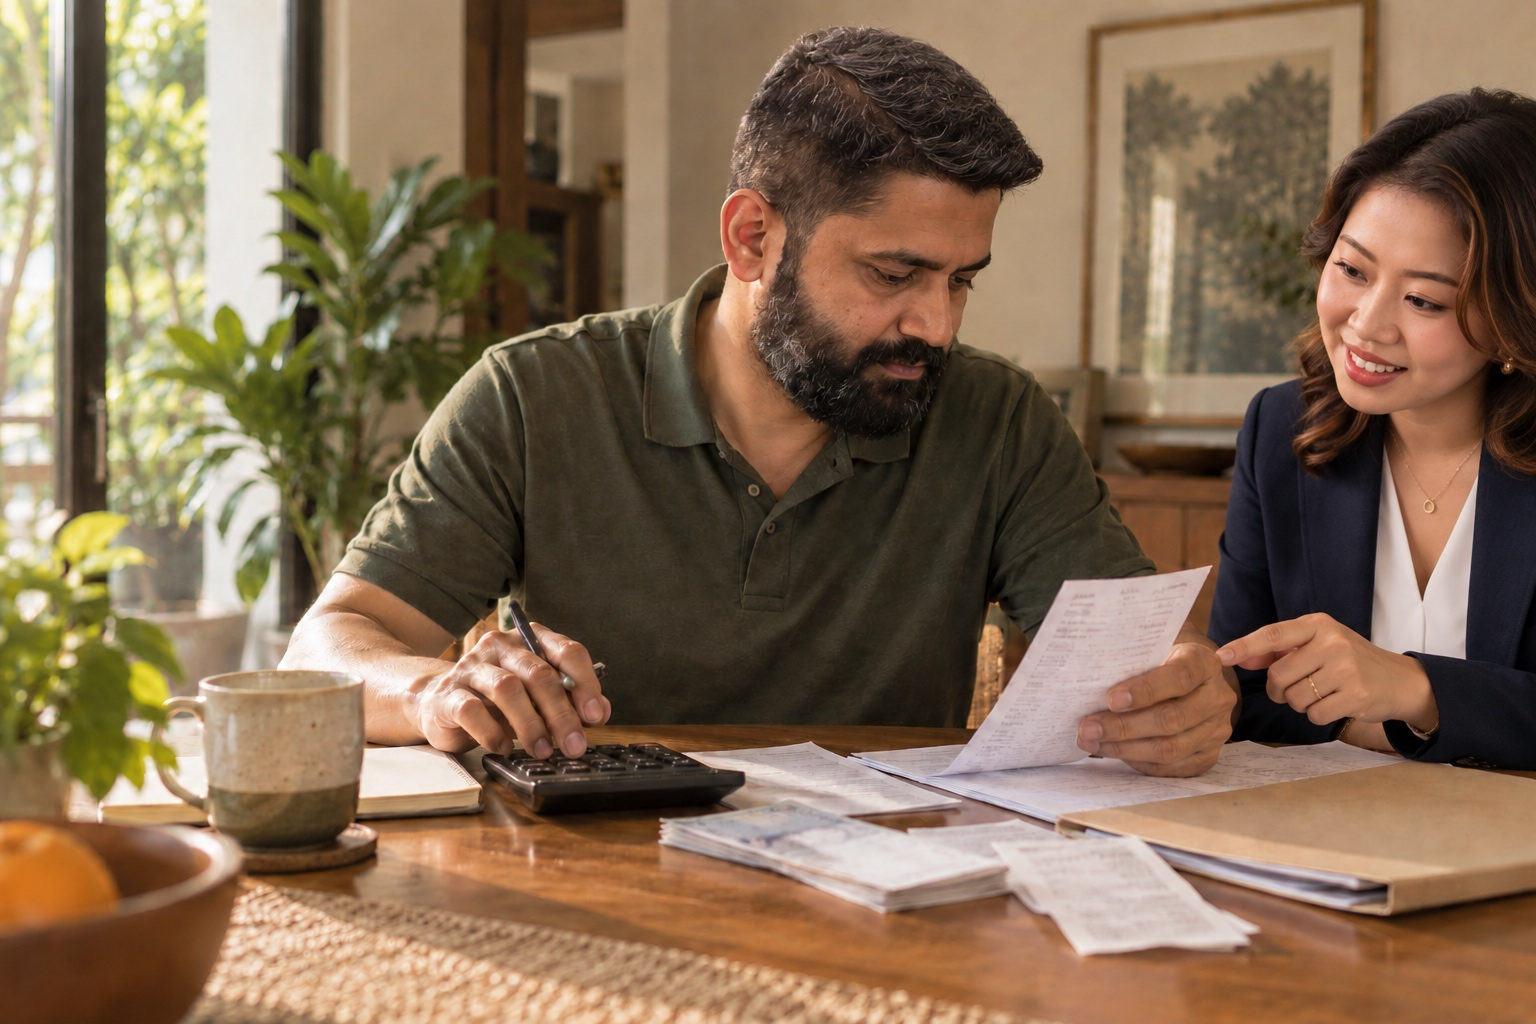
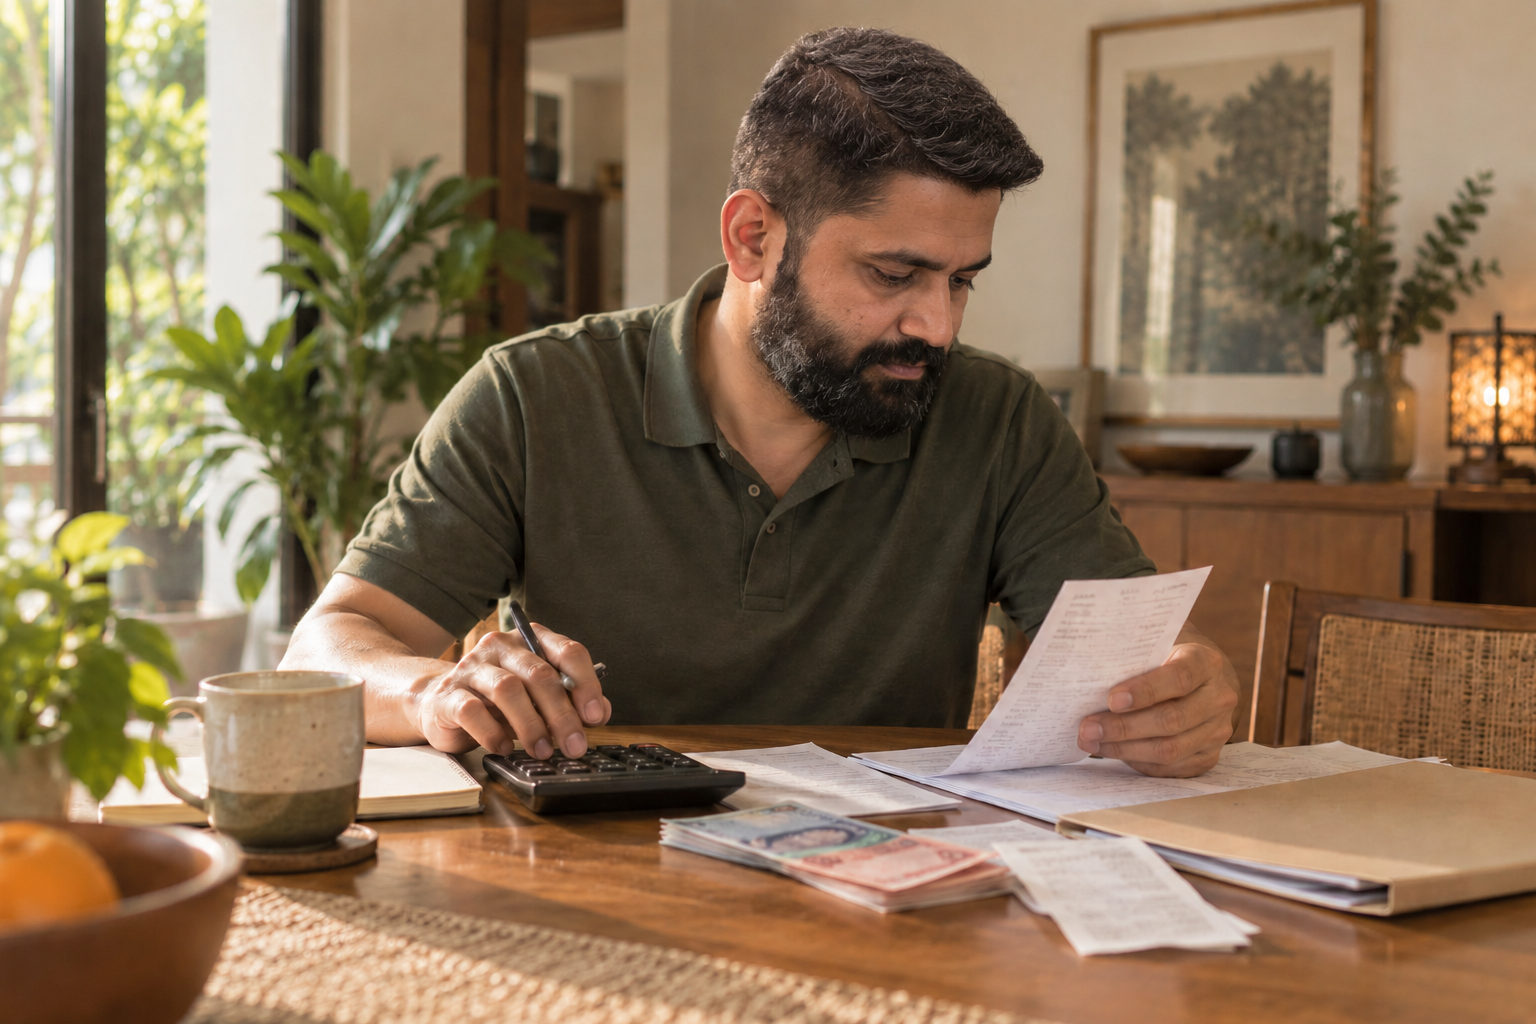
Use the client's original solution photographs
The client's source zips replace the reworked versions with their own
originals, each scene with its own adviser:

- Family (fwddlifephotoprotectingmyfamily): tiffin and old-policy cards.
- Medical (fwdmedicalhealth): limits, bill, job change, adviser + doctor.
- Future: hero and card 01 from fwdprotectyourincome.zip, which holds the
  Planning for Your Future scenes (four of its six are pixel-identical to
  Future's live photos; none fits an Income card). Income keeps its set.
- Legacy (fwdwealthlegacy): mother and son, workshop, wheelchair; card 01
  becomes a doctor consultation, and family-legacy-planning.jpg goes.

Family 02 and Medical 03 have no image in the zips and keep theirs.

Audited: 30 slots render the intended file, 28 files each used once on
their own page, every changed slot checked against its question as
displayed; no horizontal scroll at 375 or 1440; all 20 routes load every
asset.

diff --git a/content/service-photos.ts b/content/service-photos.ts
@@ -26,6 +26,16 @@ const generated = (name: string, alt: string): Photo => ({
    maps every file to its section, and that mapping is the one below; the
    Income page's six scenes are newly cast and distinct from each other.
 
+   11 Oct 2026, last: the client's own source zips (fwddlifephotoprotecting
+   myfamily, fwdmedicalhealth, fwdwealthlegacy, fwdprotectyourincome) replace
+   the reworked versions on Family, Medical, Future and Legacy with their
+   originals, each with its own adviser rather than one adviser repeated.
+   ⚠ "fwdprotectyourincome.zip" holds the PLANNING FOR YOUR FUTURE scenes
+   (four are pixel-identical to Future's market, library, dinner and window
+   photographs; none fits an Income card), so it is applied to Future, and
+   Income keeps the benchmarked set below. Legacy's zip trades the advisor-
+   and-family photo for a doctor consultation, now card 01.
+
    ⚠ PROVENANCE, in the package's own terms, and binding: the two Income
    scenes with an advisor (hero, card 01) are AI-GENERATED COMPOSITES guided
    by real adviser portraits, not camera photographs; the other Income scenes
@@ -74,8 +84,8 @@ const replacements: Record<string, { hero?: Photo; moments: Record<number, Photo
   "medical-health-preparation": {
     hero: sol("medical-health/family-doctor-consultation", "Two family members in consultation with a doctor"),
     moments: {
-      1: sol("medical-health/older-woman-advisor", "An advisor going through a policy’s limits with a client"),
-      2: sol("medical-health/medical-bill", "A man working out a medical bill with an advisor"),
+      1: sol("medical-health/older-woman-advisor", "An advisor going through a policy’s limits with an older client"),
+      2: sol("medical-health/medical-bill", "A man working out a medical bill with a calculator at home"),
       3: generated("hospital-access", "A visitor speaking with a receptionist at a hospital"),
       4: sol("medical-health/benefits-review", "A man changing jobs, reviewing his benefits with an advisor"),
       5: sol("medical-health/advisor-doctor", "An advisor going over medical records with a doctor"),
@@ -97,7 +107,7 @@ const replacements: Record<string, { hero?: Photo; moments: Record<number, Photo
   "wealth-legacy": {
     hero: sol("wealth-legacy/family-photos", "A family looking through photographs and albums together"),
     moments: {
-      1: sol("wealth-legacy/family-legacy-planning", "An advisor with a family going through photographs and papers"),
+      1: sol("wealth-legacy/doctor-consultation", "Two family members in consultation with a doctor"),
       2: sol("wealth-legacy/family-consultation", "A mother and her adult son talking over a meal with an advisor"),
       3: sol("wealth-legacy/workshop-advisor", "A mother and son discussing their furniture workshop with an advisor"),
       4: sol("wealth-legacy/wheelchair-support", "An adult wheelchair user planning long-term support with her parent and an advisor"),
